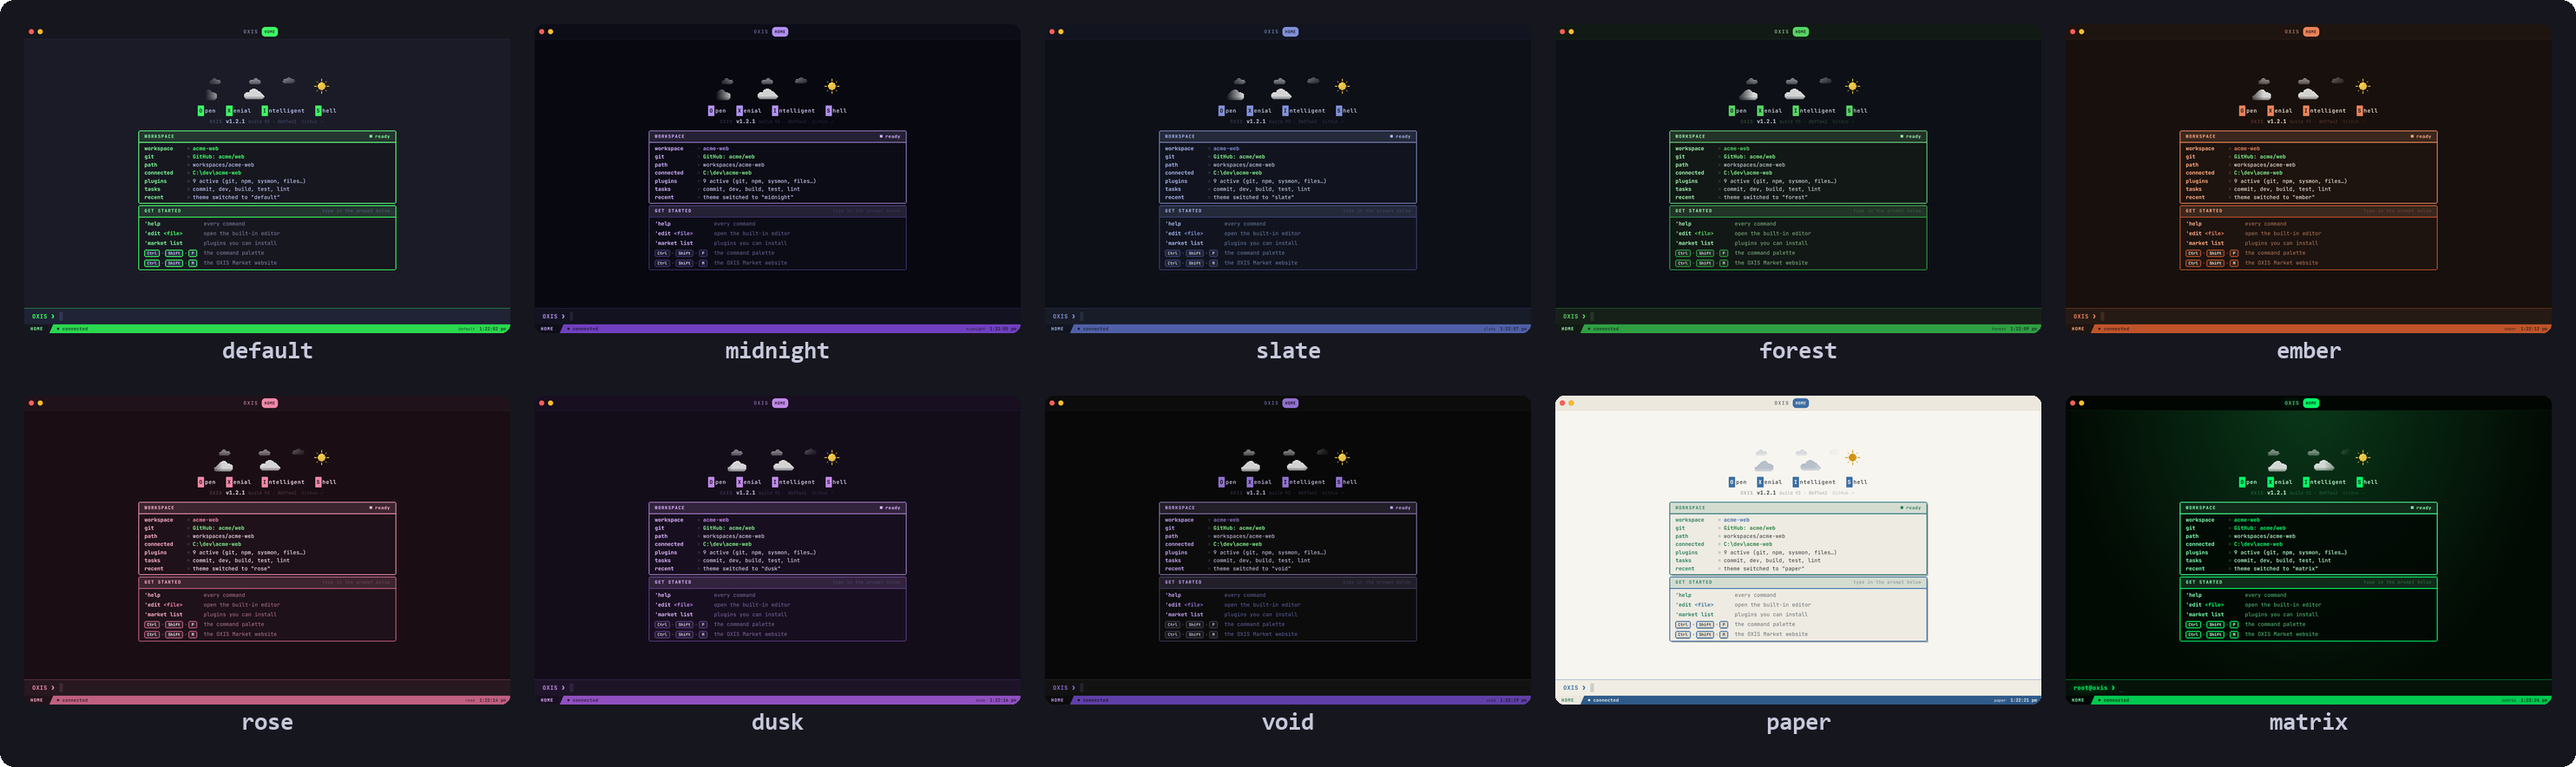
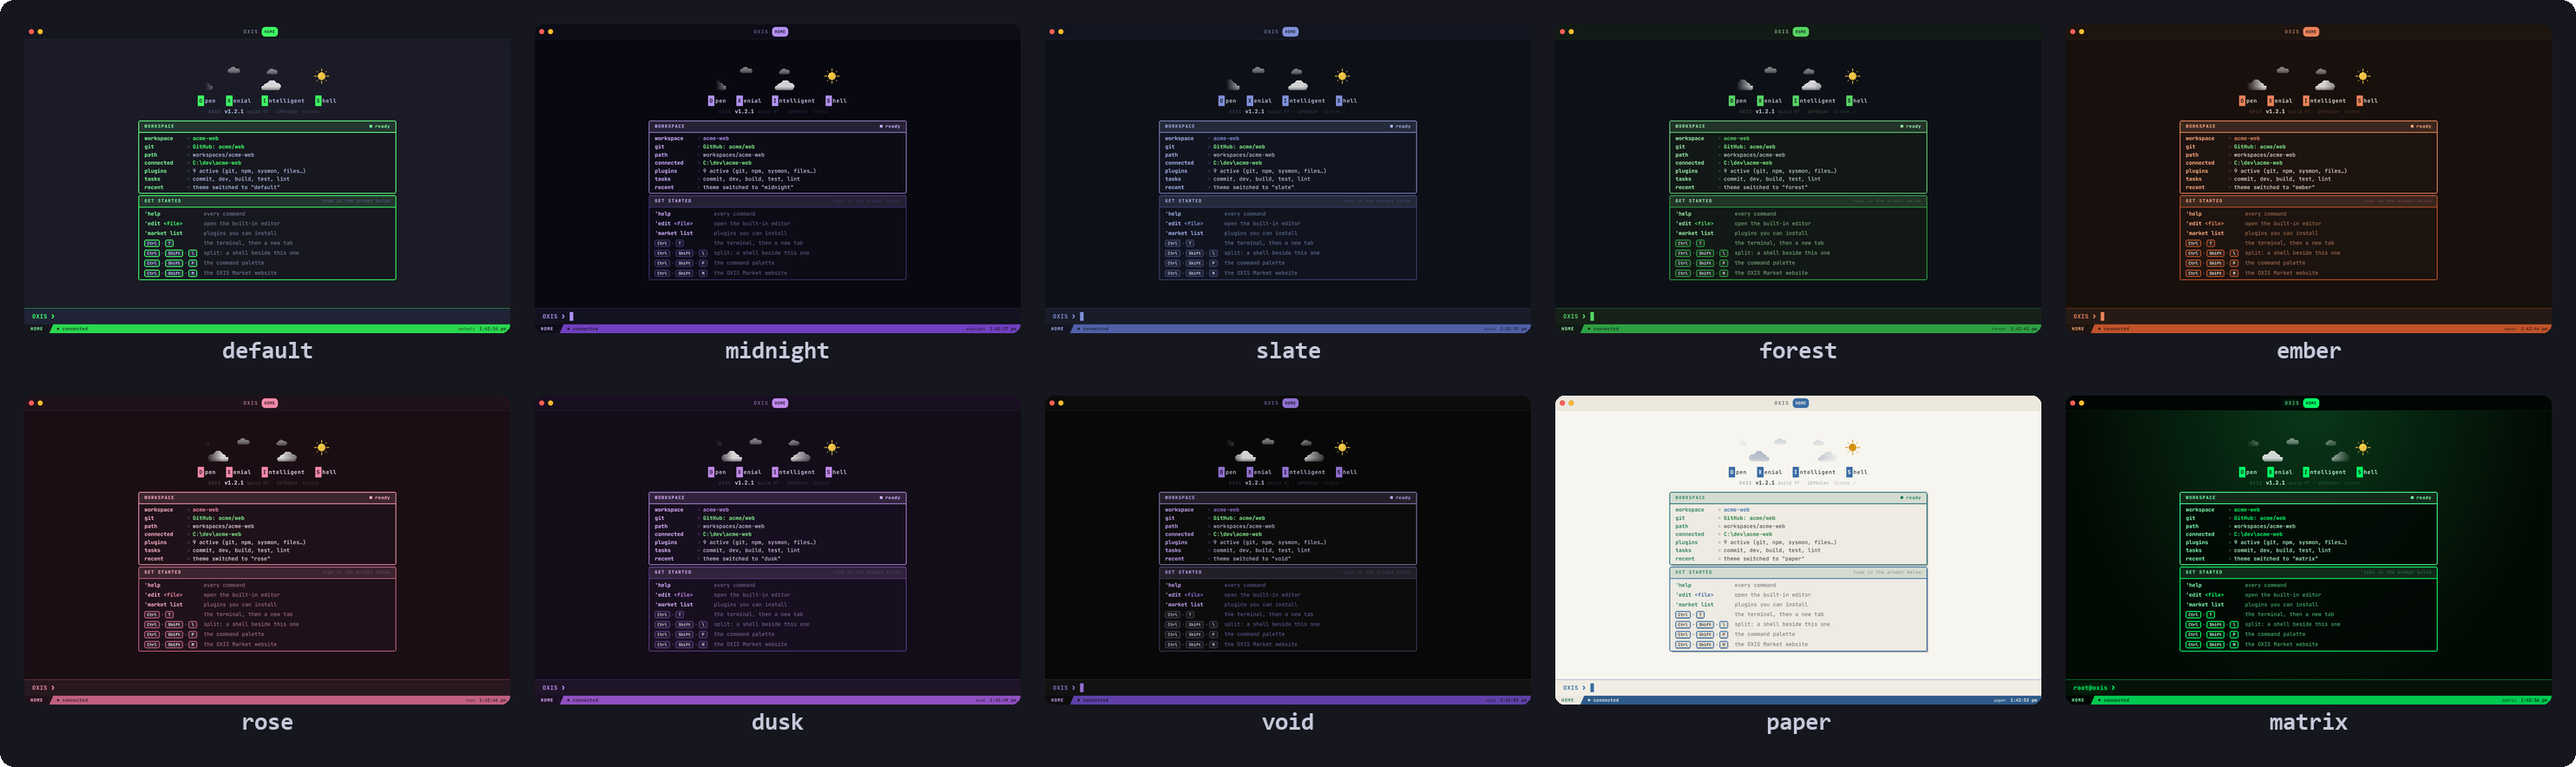
New demo and screenshots: Home's day sky, splitting from the right-click menu

diff --git a/cloudflare/index.html b/cloudflare/index.html
@@ -1288,9 +1288,9 @@ $('#codeCopy').addEventListener('click', async e => {
 });
 
 const SHOTS = [
-  ['demo', 'Recorded', 'Recorded from the app, not mocked up: Home, git, the editor catching a mistake as it is typed and suggesting a name, the tests in a split pane, a plugin from the Market and a theme switch.', 44100],
+  ['demo', 'Recorded', 'Recorded from the app, not mocked up: Home under its pixel-art sky, git, the editor catching a mistake as it is typed and suggesting a name, a split from the right-click menu with the tests passing in it, a plugin from the Market and a theme switch.', 52500],
   ['app-home', 'Home', 'Home: the active workspace, its git remote, plugins and tasks at a glance, under a pixel-art sky.'],
-  ['app-panes', 'Split panes', 'Tabs and split panes: git on the left, the tests on the right, each its own shell.'],
+  ['app-panes', 'Split panes', 'Tabs and split panes: git on the left, the tests on the right, each its own shell. New ones open in the folder you are in.'],
   ['app-search', 'Search', 'Search in files (Ctrl+Shift+F): every match in the project, grouped by file.'],
   ['app-terminal', 'Terminal', 'Your real shell in full colour, with OXIS commands mixed in and one prompt at the bottom.'],
   ['app-editor', 'Editor', 'The built-in editor: a mistake caught as you type, suggestions, a minimap, and Vim-style modes.'],

diff --git a/README.md b/README.md
@@ -26,7 +26,7 @@
 
 <br><br>
 
-<img src="assets/demo.gif" width="100%" alt="A real OXIS session: Home, git log and status, the editor catching a missing bracket as it's typed and suggesting a function name, the project's tests in a split pane, installing a plugin from the Market and switching to the ember theme">
+<img src="assets/demo.gif" width="100%" alt="A real OXIS session: Home under a pixel-art sun and drifting clouds, git log and status, the editor catching a missing bracket as it's typed and suggesting a function name, a split from the right-click menu opening in the project with the tests passing in it, installing a plugin from the Market and switching to the ember theme">
 
 <sub>▲ Recorded from the app itself: every frame is OXIS running those commands in a real project.</sub>
 
@@ -128,7 +128,7 @@ itself into your editor as it's written. See the [Lua API](#lua-api).
 | <img src="assets/screenshots/app-terminal.png" alt="The terminal in colour: git log, git status, git diff and a passing test run"> | <img src="assets/screenshots/app-editor.png" alt="The built-in editor catching a syntax error as you type, with word suggestions open and a minimap"> |
 | Your shell in full colour, with `'` commands and one prompt | The editor catches a mistake as you type and suggests words (`'edit src/cart.ts`) |
 | <img src="assets/screenshots/app-panes.png" alt="Two tabs, the first split into two panes: git log and status on the left, the project's tests passing on the right"> | <img src="assets/screenshots/app-search.png" alt="Search in files over the editor: five matches for subtotal in two files, each highlighted"> |
-| Tabs and split panes, each its own shell | Search in files (Ctrl+Shift+F) |
+| Tabs and split panes, each its own shell (buttons at a pane's top right, or right-click) | Search in files (Ctrl+Shift+F) |
 | <img src="assets/screenshots/app-home.png" alt="Home: a pixel-art sun and clouds over the workspace panel and the get-started list"> | <img src="assets/screenshots/app-palette.png" alt="The command palette over the terminal"> |
 | Home, under a pixel-art sky that follows the time of day | The command palette (Ctrl+Shift+P) |
 | <img src="assets/screenshots/app-version.png" alt="'version showing the build number, commit, tag, channel and update status"> | |
